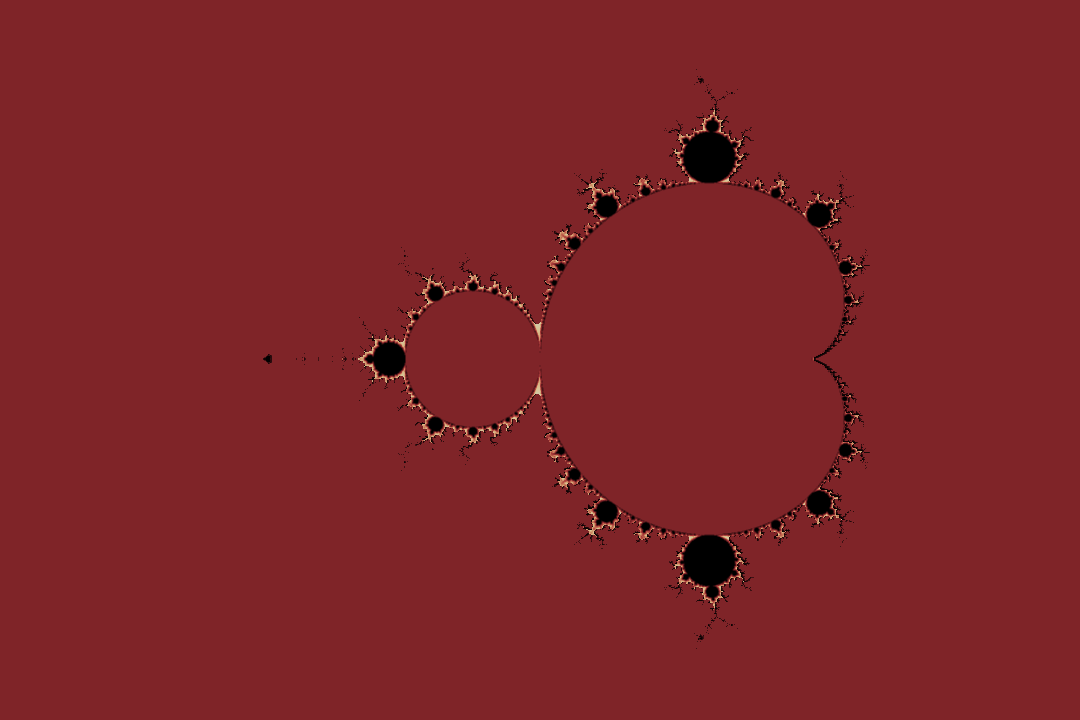
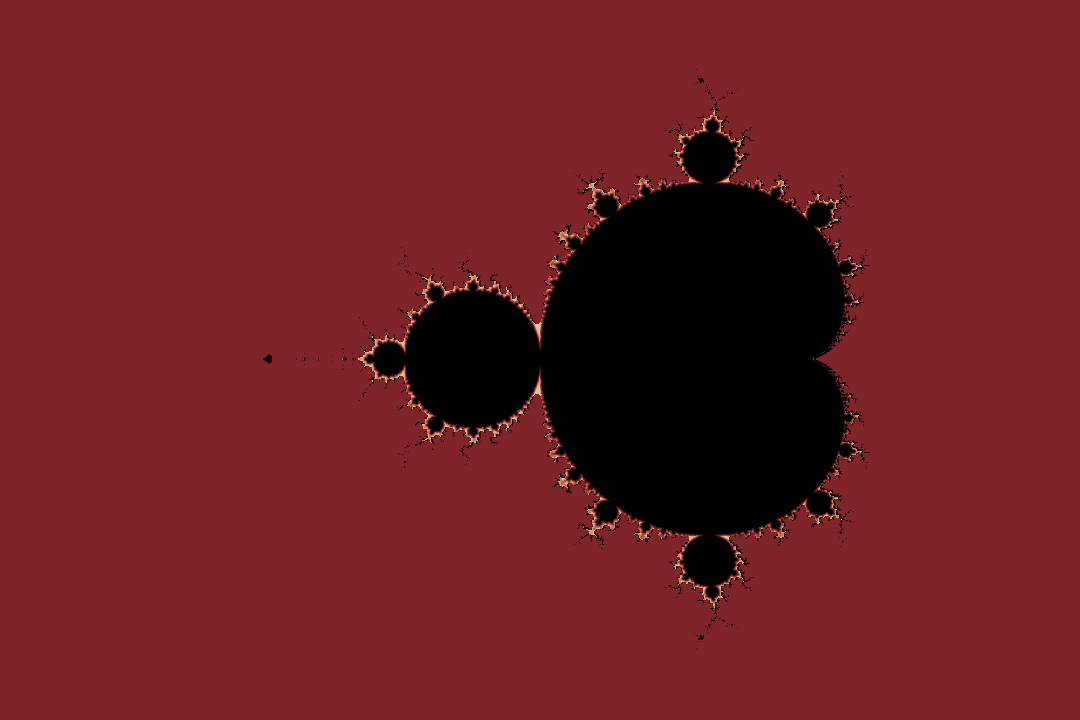
Corrected SHOW_SSAA_REGION behaviour

Changed region(s): [[0.3667, 0.2444, 0.7944, 0.7639]]

diff --git a/src/mandelbrot.rs b/src/mandelbrot.rs
@@ -289,11 +289,7 @@ pub fn iterate(c_re: f64, c_im: f64, maxiterations: NonZeroU32) -> f64 {
     if (c_re + 1.0) * (c_re + 1.0) + c_imag_sqr <= 0.0625
         || mag_sqr * (8.0 * mag_sqr - 3.0) <= 0.09375 - c_re
     {
-        if SHOW_SSAA_REGION {
-            return 0.5;
-        } else {
-            return 0.0;
-        }
+        return 0.0;
     }
 
     let mut z_re = c_re;
